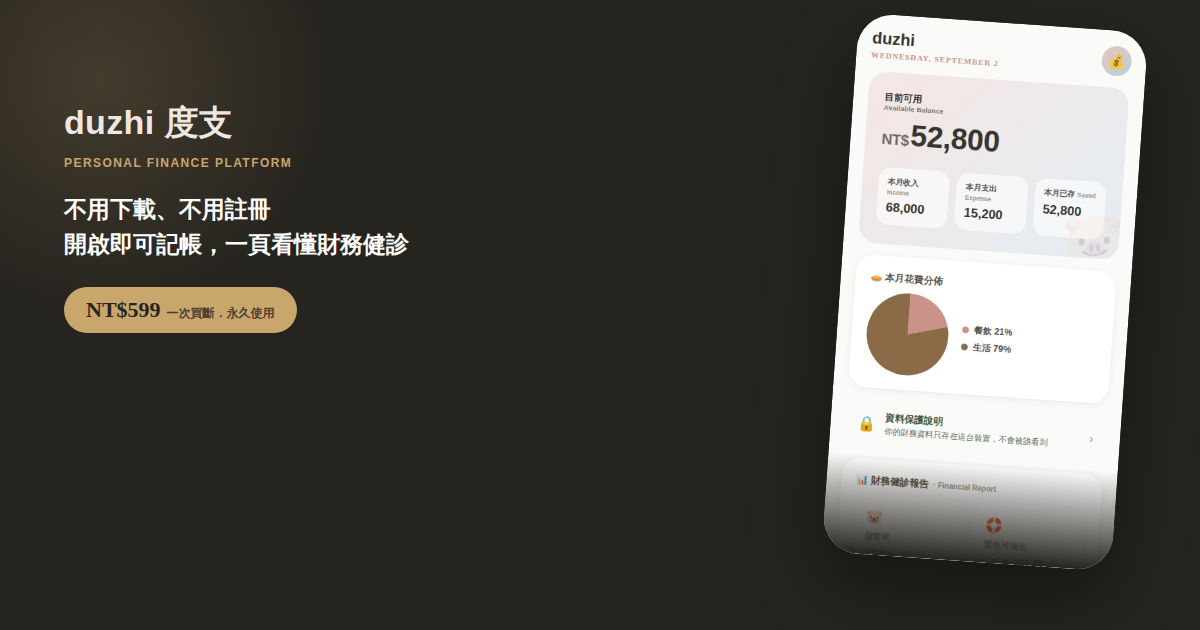
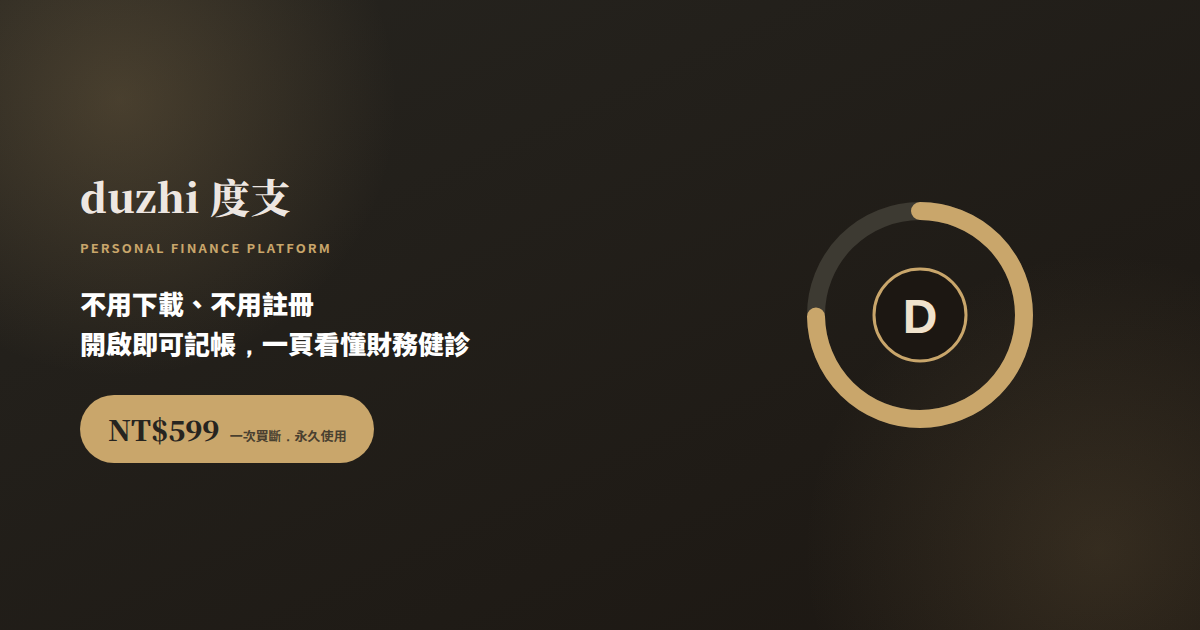
Redesign og-image without phone mockup, bump image version
Replace link-preview image with new gauge+D icon design on dark
charcoal/gold background (no phone screenshot), matching the app's
new icon and landing page style. Bump og:image/twitter:image query
version so platforms like LINE refetch instead of serving a cached
copy of the old image.

Claude-Session: https://claude.ai/code/session_01ADgQhw3m7yrX1QeFEdohzH

diff --git a/docs/index.html b/docs/index.html
@@ -15,7 +15,7 @@
 <meta property="og:type" content="website">
 <meta property="og:title" content="duzhi 度支｜專業財務管理平台">
 <meta property="og:description" content="不用下載、不用註冊，開啟即可記帳，一頁看懂財務健診報告。資料只存在你的裝置裡，不會被誰看到。">
-<meta property="og:image" content="https://duzhi-finance.github.io/duzhi-/assets/og-image.png?v=2">
+<meta property="og:image" content="https://duzhi-finance.github.io/duzhi-/assets/og-image.png?v=3">
 <meta property="og:image:width" content="1200">
 <meta property="og:image:height" content="630">
 <meta property="og:image:type" content="image/png">
@@ -23,7 +23,7 @@
 <meta name="twitter:card" content="summary_large_image">
 <meta name="twitter:title" content="duzhi 度支｜專業財務管理平台">
 <meta name="twitter:description" content="不用下載、不用註冊，開啟即可記帳，一頁看懂財務健診報告。">
-<meta name="twitter:image" content="https://duzhi-finance.github.io/duzhi-/assets/og-image.png?v=2">
+<meta name="twitter:image" content="https://duzhi-finance.github.io/duzhi-/assets/og-image.png?v=3">
 <script data-goatcounter="https://duzhi.goatcounter.com/count" async src="//gc.zgo.at/count.js"></script>
 <link rel="preconnect" href="https://fonts.googleapis.com">
 <link rel="preconnect" href="https://fonts.gstatic.com" crossorigin>
